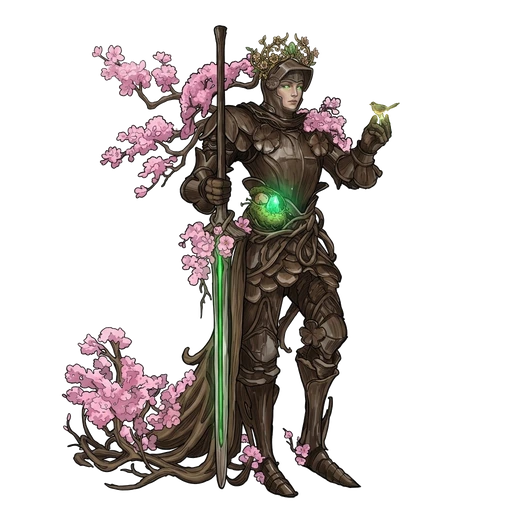
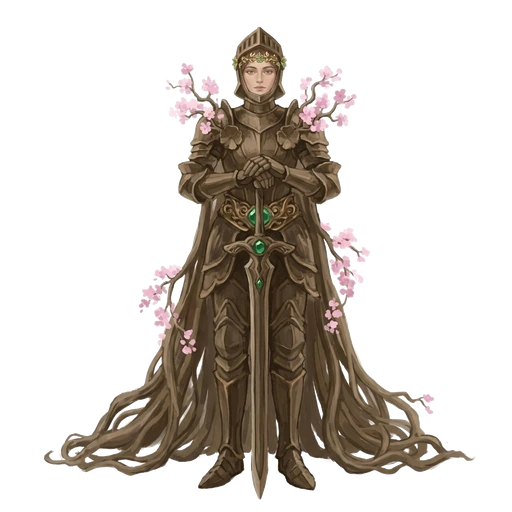
fix(art): update Flora to frontal knight stance without bird (v89)

diff --git a/src/data/cardArtPrompts.ts b/src/data/cardArtPrompts.ts
@@ -1079,7 +1079,7 @@ export const CARD_ART_PROMPTS: Record<string, string> = {
   "neutral_180_garruk_bastiao_ferro_veterano": "2D Dark Fantasy gothic baroque cel-shaded ink illustration, hulking Iron-Bastion Veteran General Garruk with scarred face and short silver beard, wearing massive layered steel pauldrons, embossed iron-and-brass fortress breastplate over charcoal-and-crimson mercenary gambeson, oversized siege gauntlet on his left arm, and right hand resting on a planted flat-tipped executioner greatsword with glowing amber forge-runes on pure white background.",
   "neutral_181_vaelor_lorde_comandante_olho_ferro": "2D Dark Fantasy gothic baroque cel-shaded ink illustration, monolithic Iron-Eye Lord-Commander Vaelor with grizzled mustache and glowing amber runic eyepatch, enormous curved crescent-wing steel pauldrons trimmed in antique brass, long dark battle cloak, hands resting on his brass eagle belt buckle, and a colossal slab-greatsword strapped vertically behind his back on pure white background.",
   "green_179_brennus_marechal_manto_musgo": "2D Dark Fantasy gothic baroque cel-shaded ink illustration, towering Moss-Mantle Sylvan Marshal Brennus in full dark steel-and-bronze filigree plate armor including heavy articulated steel cuisses, knee-guards, and greaves (no cloth skirt), overgrown with living chartreuse moss on shoulders, crowned with golden-oak stag antlers and glowing emerald eyes, emerald sap-gem on chestplate, sweeping moss-and-fern war cloak, and wielding a moss-covered runic broadsword on pure white background.",
-  "green_180_flora_dama_florescer_perene": "2D Dark Fantasy gothic baroque cel-shaded ink illustration, serene Perennial-Bloom Female Knight-General Flora in sculpted ironwood-and-bronze plate armor crowned with golden-jade blossoms, blooming pink cherry-blossom branches growing from her shoulders and trailing cloak, glowing emerald essence-crystal in her mossy waist reliquary, a golden-emerald spirit songbird perched on her raised left hand, and right hand resting on a tall planted living-wood greatsword on pure white background.",
+  "green_180_flora_dama_florescer_perene": "2D Dark Fantasy painterly concept art illustration, serene Perennial-Bloom Female Knight-General Flora standing in a 100% frontal heroic posture facing directly forward, wearing sculpted ironwood-and-bronze plate armor with an open-visored helm crowned with golden-jade leaves, blooming pink cherry-blossom branches growing from her shoulders and trailing root-cloak, emerald gem set into her ornate bronze belt, and both gauntleted hands resting naturally on the pommel of a tall planted living-wood and emerald greatsword on pure white background.",
   "green_181_verbena_marechal_cardo_real": "2D Dark Fantasy gothic baroque cel-shaded ink illustration, slender Royal-Thistle Female Spear-Marshal Verbena in sculpted emerald leaf-scale plate armor with gold filigree and glowing sap-veins, crowned by a colossal blooming royal-violet thistle flower over a golden-emerald diadem, tattered leaf-wing cape, wielding a thorny living-briar lance in her right hand and a giant sculpted leaf tower-shield on her left arm on pure white background.",
   "purple_179_morgause_dama_ferro_abissal": "2D Dark Fantasy gothic baroque cel-shaded ink illustration, slender Gothic Abyssal Female Dread-Marshal Morgause in spiked black-obsidian plate armor with an elongated upward-tilted visor helm crowned in black-gold and glowing purple amethysts, glowing violet soul-gem on her breastplate, holding a tall runic black tower shield on her right and resting her left gauntlet on a planted abyssal greatsword on pure white background.",
   "purple_180_corvina_marechal_bico_praga": "2D Dark Fantasy gothic baroque cel-shaded ink illustration, lethal Plague-Beak Female Marshal Corvina in articulated black-steel plate armor wearing a metallic raven-beak mask with glowing violet eyes beneath a deep royal-purple velvet hood crowned with a black-gold and amethyst diadem, hands resting on a long necrotic-rune katana sheathed diagonally at her waist on pure white background.",

diff --git a/src/components/CardView.tsx b/src/components/CardView.tsx
@@ -496,7 +496,7 @@ export const CardView: React.FC<CardViewProps> = ({
           <div className={`cpa-token-art aura-${displayCard.domain}`}>
             {!imgError && displayCard.imagePath ? (
               <img
-                src={`${displayCard.imagePath}?v=74`}
+                src={`${displayCard.imagePath}?v=75`}
                 alt={displayName}
                 className="cpa-token-img"
                 onError={() => setImgError(true)}
@@ -667,7 +667,7 @@ export const CardView: React.FC<CardViewProps> = ({
 
           {!imgError && displayCard.imagePath ? (
             <img
-              src={`${displayCard.imagePath}?v=74`}
+              src={`${displayCard.imagePath}?v=75`}
               alt={displayName}
               className="card-cutout-img"
               onError={() => setImgError(true)}

diff --git a/public/sw.js b/public/sw.js
@@ -1,4 +1,4 @@
-const CACHE_VERSION = 'chromatic-pact-v88';
+const CACHE_VERSION = 'chromatic-pact-v89';
 const ASSET_CACHE = `${CACHE_VERSION}-assets`;
 
 const PRECACHE_URLS = [
